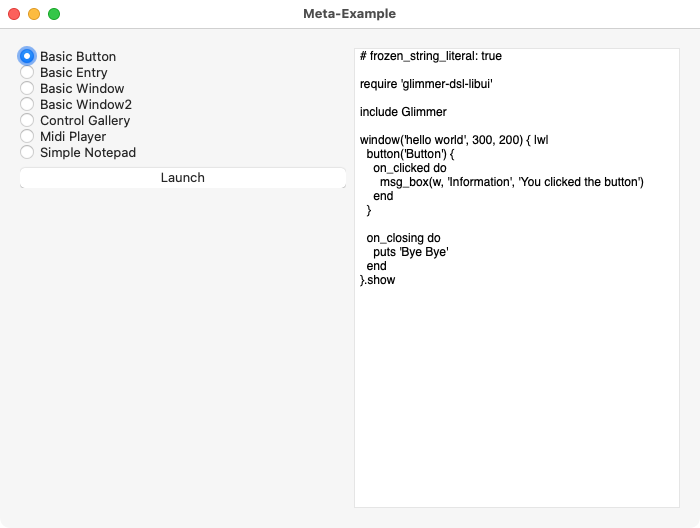
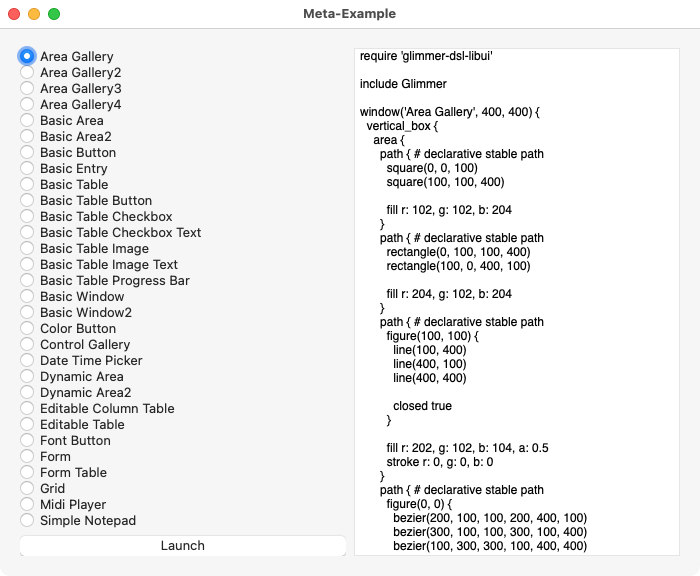
Update meta-example screenshots

diff --git a/README.md b/README.md
@@ -1,4 +1,4 @@
-# [<img src="https://raw.githubusercontent.com/AndyObtiva/glimmer/master/images/glimmer-logo-hi-res.png" height=85 />](https://github.com/AndyObtiva/glimmer) Glimmer DSL for LibUI 0.1.3
+# [<img src="https://raw.githubusercontent.com/AndyObtiva/glimmer/master/images/glimmer-logo-hi-res.png" height=85 />](https://github.com/AndyObtiva/glimmer) Glimmer DSL for LibUI 0.1.4
 ## Prerequisite-Free Ruby Desktop Development GUI Library
 [![Gem Version](https://badge.fury.io/rb/glimmer-dsl-libui.svg)](http://badge.fury.io/rb/glimmer-dsl-libui)
 [![Maintainability](https://api.codeclimate.com/v1/badges/ce2853efdbecf6ebdc73/maintainability)](https://codeclimate.com/github/AndyObtiva/glimmer-dsl-libui/maintainability)
@@ -145,7 +145,7 @@ Other [Glimmer](https://rubygems.org/gems/glimmer) DSL gems you might be interes
 
 ## Table of Contents
 
-- [Glimmer DSL for LibUI 0.1.3](#-glimmer-dsl-for-libui-013)
+- [Glimmer DSL for LibUI 0.1.4](#-glimmer-dsl-for-libui-014)
   - [Glimmer GUI DSL Concepts](#glimmer-gui-dsl-concepts)
   - [Usage](#usage)
   - [Girb (Glimmer IRB)](#girb-glimmer-irb)
@@ -273,7 +273,7 @@ gem install glimmer-dsl-libui
 Or install via Bundler `Gemfile`:
 
 ```ruby
-gem 'glimmer-dsl-libui', '~> 0.1.3'
+gem 'glimmer-dsl-libui', '~> 0.1.4'
 ```
 
 Add `require 'glimmer-dsl-libui'` at the top, and then `include Glimmer` into the top-level main object for testing or into an actual class for serious usage.

diff --git a/TODO.md b/TODO.md
@@ -4,7 +4,6 @@
 
 - Support `area` `transform` property and `matrix` object
 - Support examples/histogram.rb
-- Update meta-example screenshots
 
 ## Soon
 
